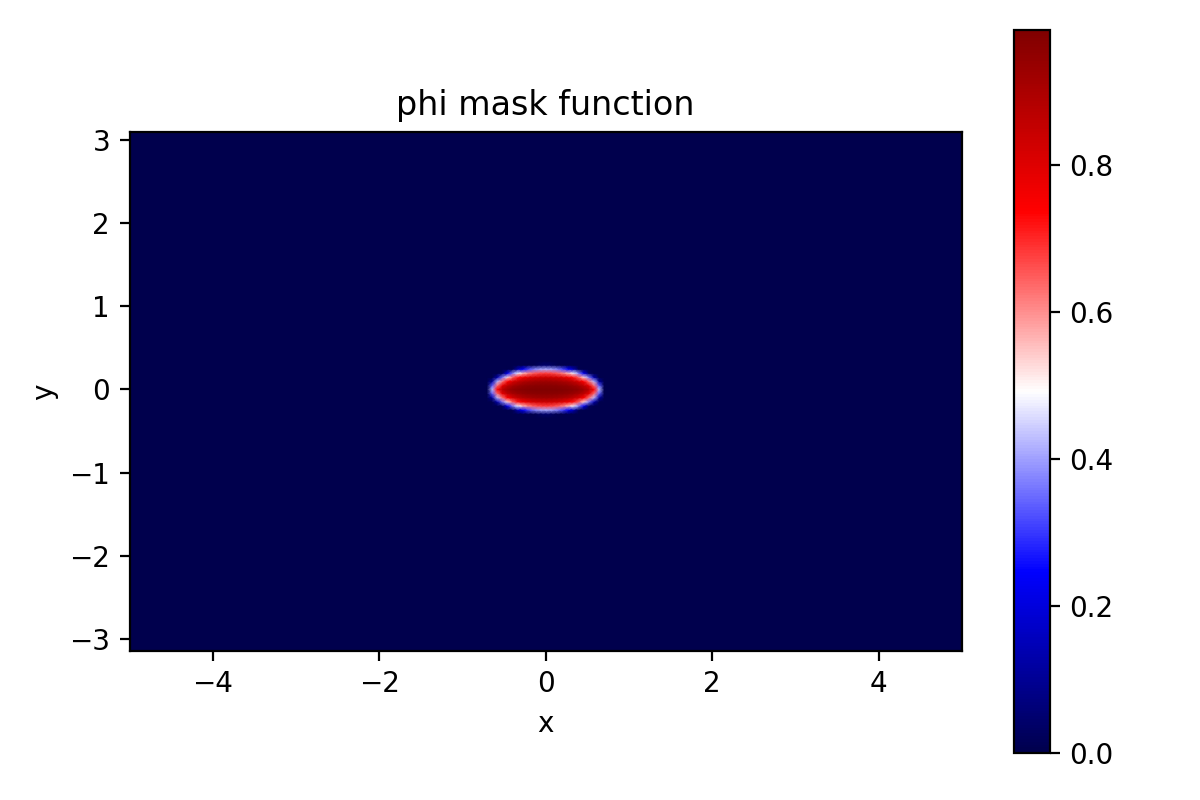
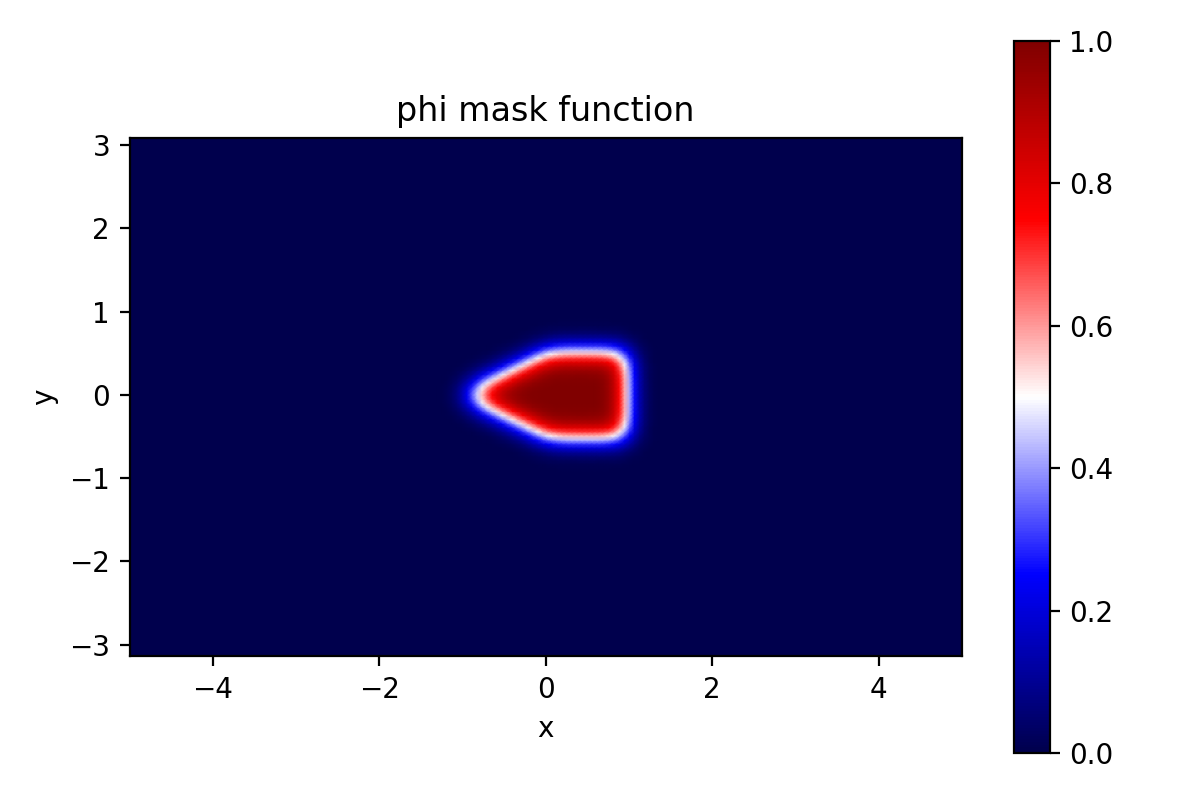
triangular nosecone

diff --git a/ns_nosecone.py b/ns_nosecone.py
@@ -1,0 +1,198 @@
+import os
+path = os.path.dirname(os.path.abspath(__file__))
+import sys
+import numpy as np
+import matplotlib.pyplot as plt
+import dedalus.public as d3
+from dedalus.core import domain
+import logging
+logger = logging.getLogger(__name__)
+from scipy.optimize import minimize
+from natsort import natsorted
+from configparser import ConfigParser
+
+filename = path + '/nsvp_options.cfg'
+config = ConfigParser()
+config.read(str(filename))
+
+restart = config.getboolean('parameters', 'restart')
+run_name = str(config.get('parameters', 'run_name'))
+if not os.path.exists(path + '/' + run_name):
+    os.makedirs(path + '/' + run_name, exist_ok=True) 
+
+
+Reynolds = config.getfloat('parameters', 'Reynolds')
+U0 = config.getfloat('parameters', 'U0')
+nu = U0 / Reynolds
+tau = config.getfloat('parameters', 'tau')
+delta = config.getfloat('parameters', 'delta')
+
+scale = config.getfloat('parameters', 'scale')
+rotation = config.getfloat('parameters', 'rotation')
+
+max_timestep = config.getfloat('parameters', 'max_dt')
+stop_sim_time = config.getfloat('parameters', 'T') + 0.1
+
+Nx = config.getint('parameters', 'Nx')
+Ny = config.getint('parameters', 'Ny')
+
+# Parameters
+Lx, Ly = 10, 2*np.pi
+Nx, Ny = 256, 128
+dtype = np.float64
+
+# Bases
+coords = d3.CartesianCoordinates('y', 'x')
+coords.name = coords.names
+dist = d3.Distributor(coords, dtype=dtype)
+ybasis = d3.RealFourier(coords['y'], size=Ny, bounds=(-Ly/2, Ly/2), dealias=3/2)
+xbasis = d3.ChebyshevT(coords['x'], size=Nx, bounds=(-Lx/2, Lx/2), dealias=3/2)
+bases = (ybasis, xbasis)
+ey, ex = coords.unit_vector_fields(dist)
+y, x = ybasis.global_grid(), xbasis.global_grid()
+y_g = y * np.ones_like(x)
+x_g = x * np.ones_like(y)
+dy = lambda A: d3.Differentiate(A, coords.coords[0])
+dx = lambda A: d3.Differentiate(A, coords.coords[1])
+
+# Fields
+u = dist.VectorField(coords, name='u', bases=bases)
+p = dist.Field(name='p', bases=bases)
+tau_p = dist.Field(name='tau_p')
+tau_u1 = dist.VectorField(coords, name='tau_u1', bases=(ybasis))
+tau_u2 = dist.VectorField(coords, name='tau_u2', bases=(ybasis))
+
+U = dist.VectorField(coords, name='U', bases=bases)
+U['g'][1] = U0
+F = dist.VectorField(coords, name='F', bases=bases)
+
+# Mask function (airfoil geometry)
+#################################################################
+domain = domain.Domain(dist, bases)
+slices = dist.grid_layout.slices(domain, scales=1)
+phi = dist.Field(name='phi', bases=bases)
+if True:
+
+    from phi_reach import construct_phi_diff
+    
+    phi_g, rs = construct_phi_diff(None, 0.01, 10, dist, coords, bases)
+    phi['g'] = phi_g
+    dist.comm.Barrier()
+    phi.change_scales(1)
+    phi_g_global = phi.allgather_data('g')
+
+    # Plot phi
+    if dist.comm.rank == 0:
+        plt.figure(figsize=(6, 4))
+        res = 8
+        pc = plt.pcolormesh(x.ravel(), y.ravel(), phi_g_global, cmap='seismic', shading='gouraud', rasterized=True)
+        plt.colorbar(pc)
+        # plt.fill(rx, ry, color='black')
+        plt.gca().set_aspect('equal')
+        plt.xlabel('x')
+        plt.ylabel('y')
+        plt.title("phi mask function")
+        plt.tight_layout()
+        plt.savefig(run_name + '/phi.png', dpi=200)
+        plt.close()
+    
+logger.info('Done. Mask function phi constructed and plotted at {}'.format(run_name + '/phi.png'))
+rx, ry = zip(*rs)
+dist.comm.Barrier()
+#################################################################
+
+
+lift_basis = xbasis.derivative_basis(1) # First derivative basis
+lift = lambda A, n: d3.Lift(A, lift_basis, n)
+grad_u = d3.grad(u) + ex*lift(tau_u1,-1) # First-order reduction
+
+problem = d3.IVP([u, p, F, tau_p, tau_u1, tau_u2], namespace=locals())
+
+problem.add_equation("trace(grad_u) + tau_p = 0")
+problem.add_equation("dt(u) + grad(p) - nu*div(grad_u) + lift(tau_u2, -1) = -u@grad(u) - phi*(u + U)/tau")
+problem.add_equation("F = integ(phi*(u + U)/tau)")
+
+problem.add_equation("(u @ ex)(x='left') = 0")
+problem.add_equation("(u @ ey)(x='left') = 0")
+problem.add_equation("(u @ ex)(x='right') = 0")
+problem.add_equation("(u @ ey)(x='right') = 0")
+# problem.add_equation("(dx(u) @ ey)(x='left') = 0")
+
+problem.add_equation("integ(p) = 0") # Pressure gauge
+
+# Solver
+solver = problem.build_solver(d3.RK222)
+solver.stop_sim_time = stop_sim_time
+
+if (restart):
+    # u['g'] = U['g'].copy()
+    fhmode = 'overwrite'
+else:
+    load_dir = path + '/' + run_name + "/checkpoints/"
+    checkpoint_names = [name for name in os.listdir(load_dir) if '.h5' in name]
+    last_checkpoint = natsorted(checkpoint_names)[-1]
+    solver.load_state(load_dir + last_checkpoint, -1)
+    fhmode = 'append'
+
+checkpoints = solver.evaluator.add_file_handler(path + '/' + run_name + "/checkpoints", max_writes=1, sim_dt=5, mode=fhmode)
+checkpoints.add_tasks(solver.state, layout='g')
+
+CFL = d3.CFL(solver, initial_dt=max_timestep, cadence=10, safety=0.8, threshold=0.1,
+             max_change=1.5, min_change=0.5, max_dt=max_timestep)
+CFL.add_velocity(u)
+
+# Flow properties
+flow = d3.GlobalFlowProperty(solver, cadence=10)
+flow.add_property(np.sqrt((u@ex)**2 + (u@ey)**2), name='u_mag')
+
+dist.comm.Barrier()
+
+while solver.proceed:
+    # timestep = CFL.compute_timestep()
+    timestep = max_timestep
+    solver.step(timestep)
+    if (solver.iteration-1) % 100 == 0:
+        max_u_mag = flow.max('u_mag')
+        Fd = (F @ ex).evaluate()['g'].flat[0]
+        Fl = (F @ ey).evaluate()['g'].flat[0]
+        # phi['g'] *= 1.01
+        logger.info('Iteration=%i; Time=%e; dt=%e; max(|u|)=%f; lift=%f; drag=%f; tau=%f' %(solver.iteration, solver.sim_time, timestep, max_u_mag, Fl, Fd, tau))
+
+# if (dist.comm.rank == 0):
+#     plt.plot(ts, max_us)
+#     plt.xlabel(r"$t$")
+#     plt.ylabel(r"$L-\infty [\vec{u}]$")
+#     plt.savefig(run_name + '/max_u.png')
+#     plt.show()
+dist.comm.Barrier()
+
+# Gather global data
+x = xbasis.global_grid()
+y = ybasis.global_grid()
+
+ux = ((u + U) @ ex).evaluate()
+ux.change_scales(1)
+ugx = ux.allgather_data('g')
+
+uy = ((u + U) @ ey).evaluate()
+uy.change_scales(1)
+ugy = uy.allgather_data('g')
+mag_u = np.sqrt(ugx**2 + ugy**2)
+
+# Plot
+if dist.comm.rank == 0:
+    plt.figure(figsize=(6, 4))
+    res = 8
+    # plt.pcolormesh(x.ravel(), y.ravel(), phi_g_global, cmap='viridis', shading='gouraud', rasterized=True)
+    pc = plt.pcolormesh(x.ravel(), y.ravel(), mag_u, cmap='seismic', shading='gouraud', rasterized=True)
+    plt.colorbar(pc)
+    # plt.quiver(x_g.T[::res, ::res], y_g.T[::res, ::res], x_g.T[::res, ::res], y_g.T[::res, ::res])
+    plt.quiver(x_g.T[::res, ::res], y_g.T[::res, ::res], ugx.T[::res, ::res], ugy.T[::res, ::res])
+    plt.fill(rx, ry, edgecolor='k', linewidth=1, fill=False)
+    plt.gca().set_aspect('equal')
+    plt.xlabel('x')
+    plt.ylabel('y')
+    plt.title("Flow: t = {:.2f}".format(solver.sim_time))
+    plt.tight_layout()
+    plt.savefig(run_name + '/flow_final.png', dpi=200)
+    logger.info('final flow state plotted to {}'.format(run_name + '/flow_final.png'))

diff --git a/phi_reach.py b/phi_reach.py
@@ -1,0 +1,92 @@
+import numpy as np
+import matplotlib.pyplot as plt
+import dedalus.public as d3
+import logging
+logger = logging.getLogger(__name__)
+from scipy.optimize import minimize
+from dedalus.core import domain
+
+
+def construct_phi_diff(a, T, Ndt, dist, coords, bases):
+
+
+    xbasis, ybasis = bases[1], bases[0]
+    ey, ex = coords.unit_vector_fields(dist)
+    y, x = ybasis.local_grid(), xbasis.local_grid()
+    # y, x = ybasis.global_grid(), xbasis.global_grid()
+    y_g = y * np.ones_like(x)
+    x_g = x * np.ones_like(y)
+    Nx = max(x.shape)
+    Ny = max(y.shape)
+    dy = lambda A: d3.Differentiate(A, coords.coords[0])
+    dx = lambda A: d3.Differentiate(A, coords.coords[1])
+
+    xscale = 1.0
+    yscale = 0.5
+
+    rs = [(0.0, 1.0), (1.0, 1.0), (1.0, -1.0), (0.0, -1.0), (-1.0, 0.0)]
+
+    for ind, (rx, ry) in enumerate(rs):
+        rs[ind] = (rx * xscale, ry * yscale)
+
+    # rs = list(zip(rx, ry))
+
+    # plt.scatter(rx, ry)
+    # plt.show()
+
+    logger.info('solving for the signed distance function. This might take a sec')
+    from matplotlib import path
+    curve = path.Path(rs) 
+    # flags = p.contains_points(x_g, y_g)
+    enclosed = np.zeros_like(x_g)
+    for ix in range(Nx):
+        for iy in range(Ny):
+            if (curve.contains_points([(x_g[iy, ix], y_g[iy, ix])])):
+                enclosed[iy, ix] = 1
+
+    p = dist.Field(name='p', bases=bases)
+    tau_p1 = dist.Field(name='tau_p1', bases=(ybasis))
+    tau_p2 = dist.Field(name='tau_p2', bases=(ybasis))
+
+    lift_basis = xbasis.derivative_basis(1) # First derivative basis
+    lift = lambda A, n: d3.Lift(A, lift_basis, n)
+    grad_p = d3.grad(p) + ex*lift(tau_p1,-1) # First-order reduction
+
+    problem = d3.IVP([p, tau_p1, tau_p2], namespace=locals())
+
+    problem.add_equation("dt(p) - div(grad_p) + lift(tau_p2, -1) = 0")
+    problem.add_equation("p(x = 'left') = 0") 
+    problem.add_equation("p(x = 'right') = 0") 
+    # problem.add_equation("integ(p) = 0") 
+    
+    solver = problem.build_solver(d3.RK222)
+    solver.stop_sim_time = T
+
+    # domain = domain.Domain(dist, bases)
+    # slices = dist.grid_layout.slices(domain, scales=1)
+    p['g'] = enclosed.copy()
+
+    dt = T / Ndt
+    for i in range(Ndt):
+        solver.step(dt)
+        if (solver.iteration % round(Ndt / 10) == 0):
+            logger.info('Iteration=%i, Time=%e' %(solver.iteration, solver.sim_time))
+    
+    p.change_scales(1)
+    pdiff = p.allgather_data('g')
+    pdiff -= np.min(pdiff)
+    pdiff /= np.max(pdiff)
+
+    # pc = plt.pcolormesh(x_g.T, y_g.T, pdiff.T, cmap='seismic', shading='gouraud', rasterized=True)
+    # plt.colorbar(pc)
+    # # plt.fill(rx, ry, edgecolor='k', linewidth=1, linestyle='--', fill=False)
+    # plt.gca().set_aspect('equal')
+    # plt.xlabel('x')
+    # plt.ylabel('y')
+    # plt.title("Phi mask (diffused indicator)")
+    # plt.tight_layout()
+    # # plt.savefig('stokes.pdf')
+    # plt.savefig('phi_diff.png', dpi=200)
+
+
+    return pdiff, rs
